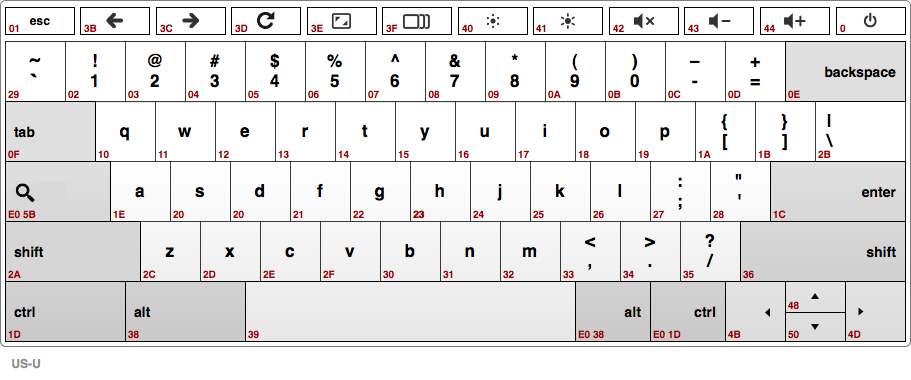
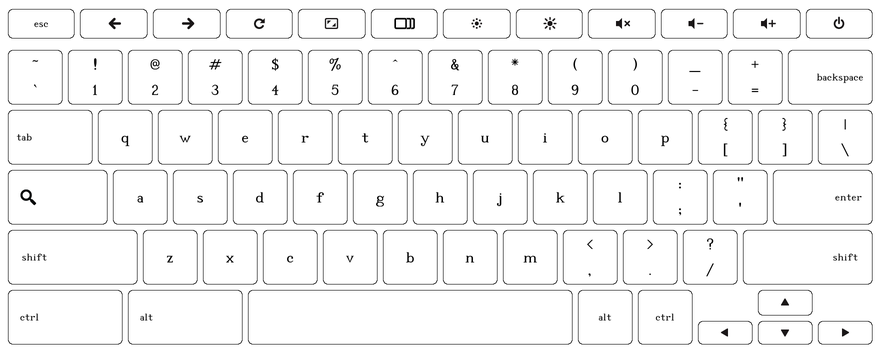
factory: Modify keyboard test for new binding format
The on-going change in issue 2928 changes the binding file format
from using key symbols to using raw scan codes. To work with the new
format we need to update the factory keyboard test accordingly.

This CL includes the new image and binding files for the US
keyboards. Will add support for more keyboards later.

BUG=chrome-os-partner:6765, chrome-os-partner:382
TEST=manual
  - run it under the autotest framework on a chromebook

Commit-Ready: Tai-Hsu Lin <sheckylin@chromium.org>

diff --git a/client/site_tests/factory_Keyboard/factory_Keyboard.py b/client/site_tests/factory_Keyboard/factory_Keyboard.py
@@ -23,6 +23,9 @@ import os
 import sys
 import utils
 
+import re
+import subprocess
+
 from gtk import gdk
 
 from autotest_lib.client.bin import factory
@@ -30,6 +33,69 @@ from autotest_lib.client.bin import factory_ui_lib as ful
 from autotest_lib.client.bin import test
 from autotest_lib.client.common_lib import error
 
+# The keycodes from the GTK keyboard event have a +8 offset
+# from the real one, hence the constant here
+_GTK_KB_KEYCODE_OFFSET = 8
+
+def GetScanToKeyMap():
+    """
+        Generate the scancode-to-keycode conversion table
+    """
+
+    p = subprocess.Popen('getkeycodes', stdout=subprocess.PIPE)
+    rawTable, useless = p.communicate()
+
+    # plain scancodes (scancode = keycode)
+    r1 = re.search(r'for\s\d+-\d+', rawTable)
+    r1 = re.findall(r'\d+', r1.group())
+    mapping = dict([('%02X' % x, x) for x in xrange(int(r1[0]), int(r1[1])+1)])
+
+    # irregular mappings
+    eights = re.findall(r'0x\d+:\s+[\d-]+\s+[\d-]+\s+[\d-]+\s+[\d-]+'
+                        r'\s+[\d-]+\s+[\d-]+\s+[\d-]+\s+[\d-]+', rawTable)
+    for row in eights:
+        start = int(re.search(r'0x\d+', row).group(), 16)
+
+        kcodes = re.findall(r'\s+\d+', row[5:])
+        for entry in kcodes:
+            if int(entry) != 0:
+                mapping['%02X' % start] = int(entry)
+            start = start + 1
+
+    # special scancodes (with 0xe0 leading byte)
+    eights = re.findall(r'e0\s\d+:\s+[\d-]+\s+[\d-]+\s+[\d-]+\s+[\d-]+'
+                        r'\s+[\d-]+\s+[\d-]+\s+[\d-]+\s+[\d-]+', rawTable)
+    for row in eights:
+        start = int(re.search(r'\s\d+:', row).group()[:-1], 16)
+
+        kcodes = re.findall(r'\s+\d+', row[6:])
+        for entry in kcodes:
+            if int(entry) != 0:
+                mapping['E0 %02X' % start] = int(entry)
+            start = start + 1
+
+    return mapping
+
+def GenerateKeycodeBinding(scan_to_geom):
+    """
+        Convert the scancode-to-geometry binding
+        to keycode-to-geometry binding
+    """
+
+    # Get the scan-to-key mapping
+    scan_to_key = GetScanToKeyMap()
+
+    # Convert scancodes to keycodes in the scan-to-geom bindings
+    key_to_geom = {}
+    for item in scan_to_geom.items():
+        # make binding only for the keys which exist in both mappings
+        # things like power key are skipped here (keycode of power is
+        # inconsistent)
+
+        if(scan_to_key.has_key(item[0])):
+            key_to_geom[scan_to_key[item[0]] + _GTK_KB_KEYCODE_OFFSET] = item[1]
+
+    return key_to_geom
 
 class KeyboardTest:
 
@@ -83,24 +149,15 @@ class KeyboardTest:
         return True
 
     def key_press_event(self, widget, event):
-        if ('GDK_MOD1_MASK' in event.state.value_names
-            and event.keyval == gtk.keysyms.q):
-            # Alt-q for early exit.
-            gtk.main_quit()
-            return True
-        if event.keyval in self.successful_keys:
+        if event.hardware_keycode in self.successful_keys:
             # Ignore keys already found to work successfully.
             return True
-        if event.state != 0:
-            factory.log('key (0x%x) ignored because modifier applied (state=%d)'
-                        % (event.keyval, event.state))
-            return True
-        if event.keyval not in self._bindings:
+        if event.hardware_keycode not in self._bindings:
             factory.log('key (0x%x) ignored because not in bindings'
                         % event.keyval)
             return True
 
-        self._pressed_keys.add(event.keyval)
+        self._pressed_keys.add(event.hardware_keycode)
         widget.queue_draw()
 
         # The first keypress starts test countdown.
@@ -110,11 +167,11 @@ class KeyboardTest:
         return True
 
     def key_release_event(self, widget, event):
-        if event.keyval not in self._pressed_keys:
+        if event.hardware_keycode not in self._pressed_keys:
             # Ignore releases for keys not previously accepted as pressed.
             return False
-        self._pressed_keys.remove(event.keyval)
-        self.successful_keys.add(event.keyval)
+        self._pressed_keys.remove(event.hardware_keycode)
+        self.successful_keys.add(event.hardware_keycode)
         widget.queue_draw()
         if not self.calc_missing_string():
             factory.log('completed successfully')
@@ -166,6 +223,7 @@ class factory_Keyboard(test.test):
         try:
             with open('%s.bindings' % layout, 'r') as file:
                 bindings = eval(file.read())
+                bindings = GenerateKeycodeBinding(bindings)
         except IOError as e:
             raise error.TestNAError('Error while opening %s: %s [Errno %d]' %
                                     (e.filename, e.strerror, e.errno))
